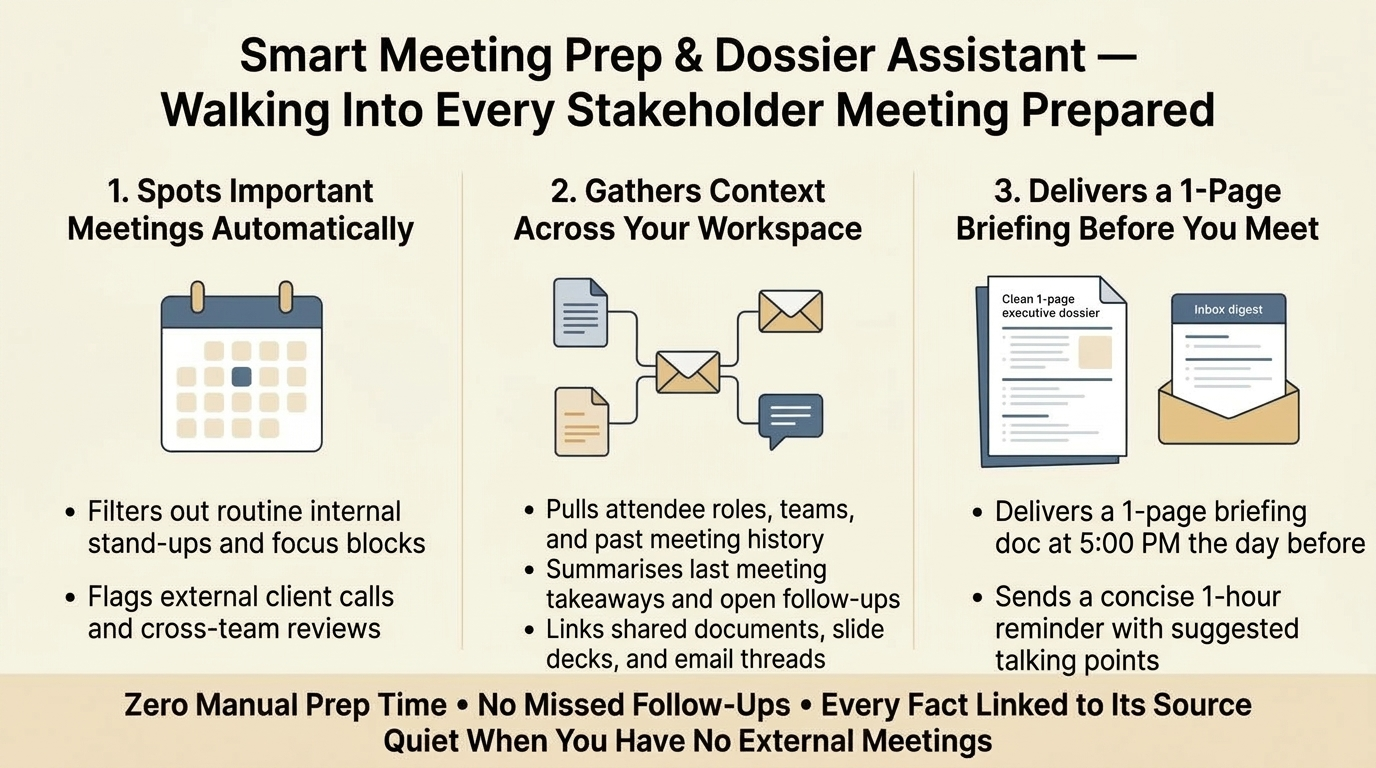
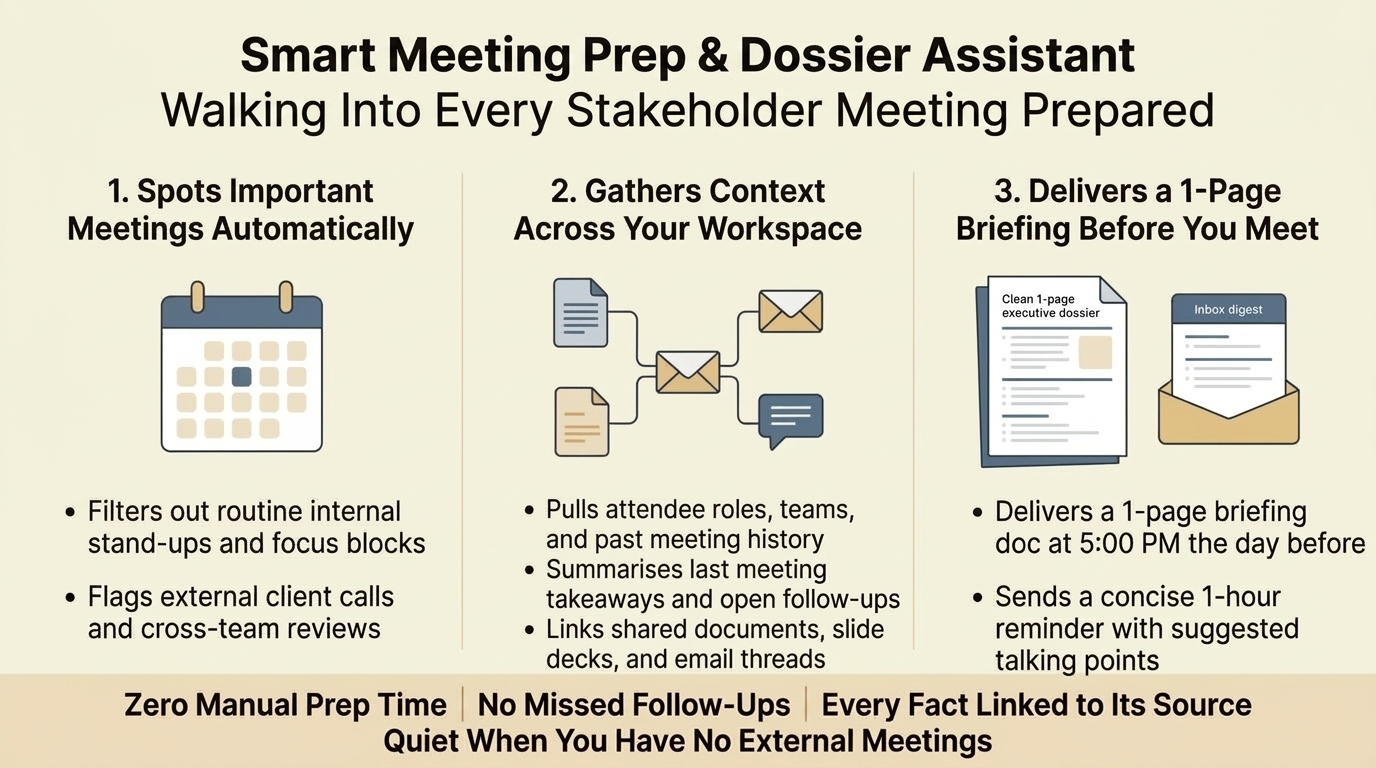
docs: remove em dash from infographic header and use vertical dividers in footer bar

Changed region(s): [[0.125, 0.0312, 0.875, 0.1875], [0.5625, 0.9062, 0.6875, 0.9375], [0.3125, 0.9062, 0.3438, 0.9375]]

diff --git a/test/README.md b/test/README.md
@@ -1,4 +1,4 @@
-# Meeting Prep Agent — Mock Test Harness
+# Meeting Prep Agent: Mock Test Harness
 
 Exercises the **shipping** automation prompts against a 100% synthetic Workspace. No real calendar, mailbox, Drive file, or email is ever touched.
 
@@ -19,7 +19,7 @@ sidecars/<id>/sidecar.json  ──►  build_test_prompt.py  ──►  TEST MOD
                                                         (grades the run)
 ```
 
-`build_test_prompt.py` reads the `sidecar.json` definition, substitutes the synthetic user's email and timezone from `fixtures/world.json`, and string-replaces each Workspace CLI command with `python3 mock_tool.py <tool>`. That means **the harness always tests whatever prompt is actually shipped** — edit the automation and the tests follow automatically.
+`build_test_prompt.py` reads the `sidecar.json` definition, substitutes the synthetic user's email and timezone from `fixtures/world.json`, and string-replaces each Workspace CLI command with `python3 mock_tool.py <tool>`. That means **the harness always tests whatever prompt is actually shipped**: edit the automation and the tests follow automatically.
 
 Fixture times are relative (`next business day 10:30`, `now + 75 min`) and are resolved to concrete `Asia/Singapore` timestamps at call time, so the scenarios never expire.
 

diff --git a/README.md b/README.md
@@ -40,7 +40,7 @@ The agent is split into **two complementary cron automations** that coordinate s
 
 ```mermaid
 flowchart TB
-    subgraph Stage1["Stage 1: Next-Business-Day Dossier (`meeting-prep-dossier` — Weekdays 17:00 SGT)"]
+    subgraph Stage1["Stage 1: Next-Business-Day Dossier (`meeting-prep-dossier`, Weekdays 17:00 SGT)"]
         direction LR
         C1["List Next Business Day\n(Fri run -> Mon)"] --> Q1{"Qualifies?\nExternal OR\n2+ Cross-Func"}
         Q1 -- "No (Standup, OOO,\nDeclined, >25p)" --> S1["Skip\n(Silence if 0 qualify)"]
@@ -49,7 +49,7 @@ flowchart TB
         D1 --> E1["Email Daily Prep Digest\n+ 1-Line Filtered Footer"]
     end
 
-    subgraph Stage2["Stage 2: T-1h Stateless Reminder (`meeting-prep-reminder` — Hourly 06:00–19:00 SGT)"]
+    subgraph Stage2["Stage 2: T-1h Stateless Reminder (`meeting-prep-reminder`, Hourly 06:00–19:00 SGT)"]
         direction LR
         C2["Exact 60m Window\n[NOW + 60m, NOW + 120m)"] --> Q2{"Qualifies?"}
         Q2 -- "No" --> S2["Silence"]
